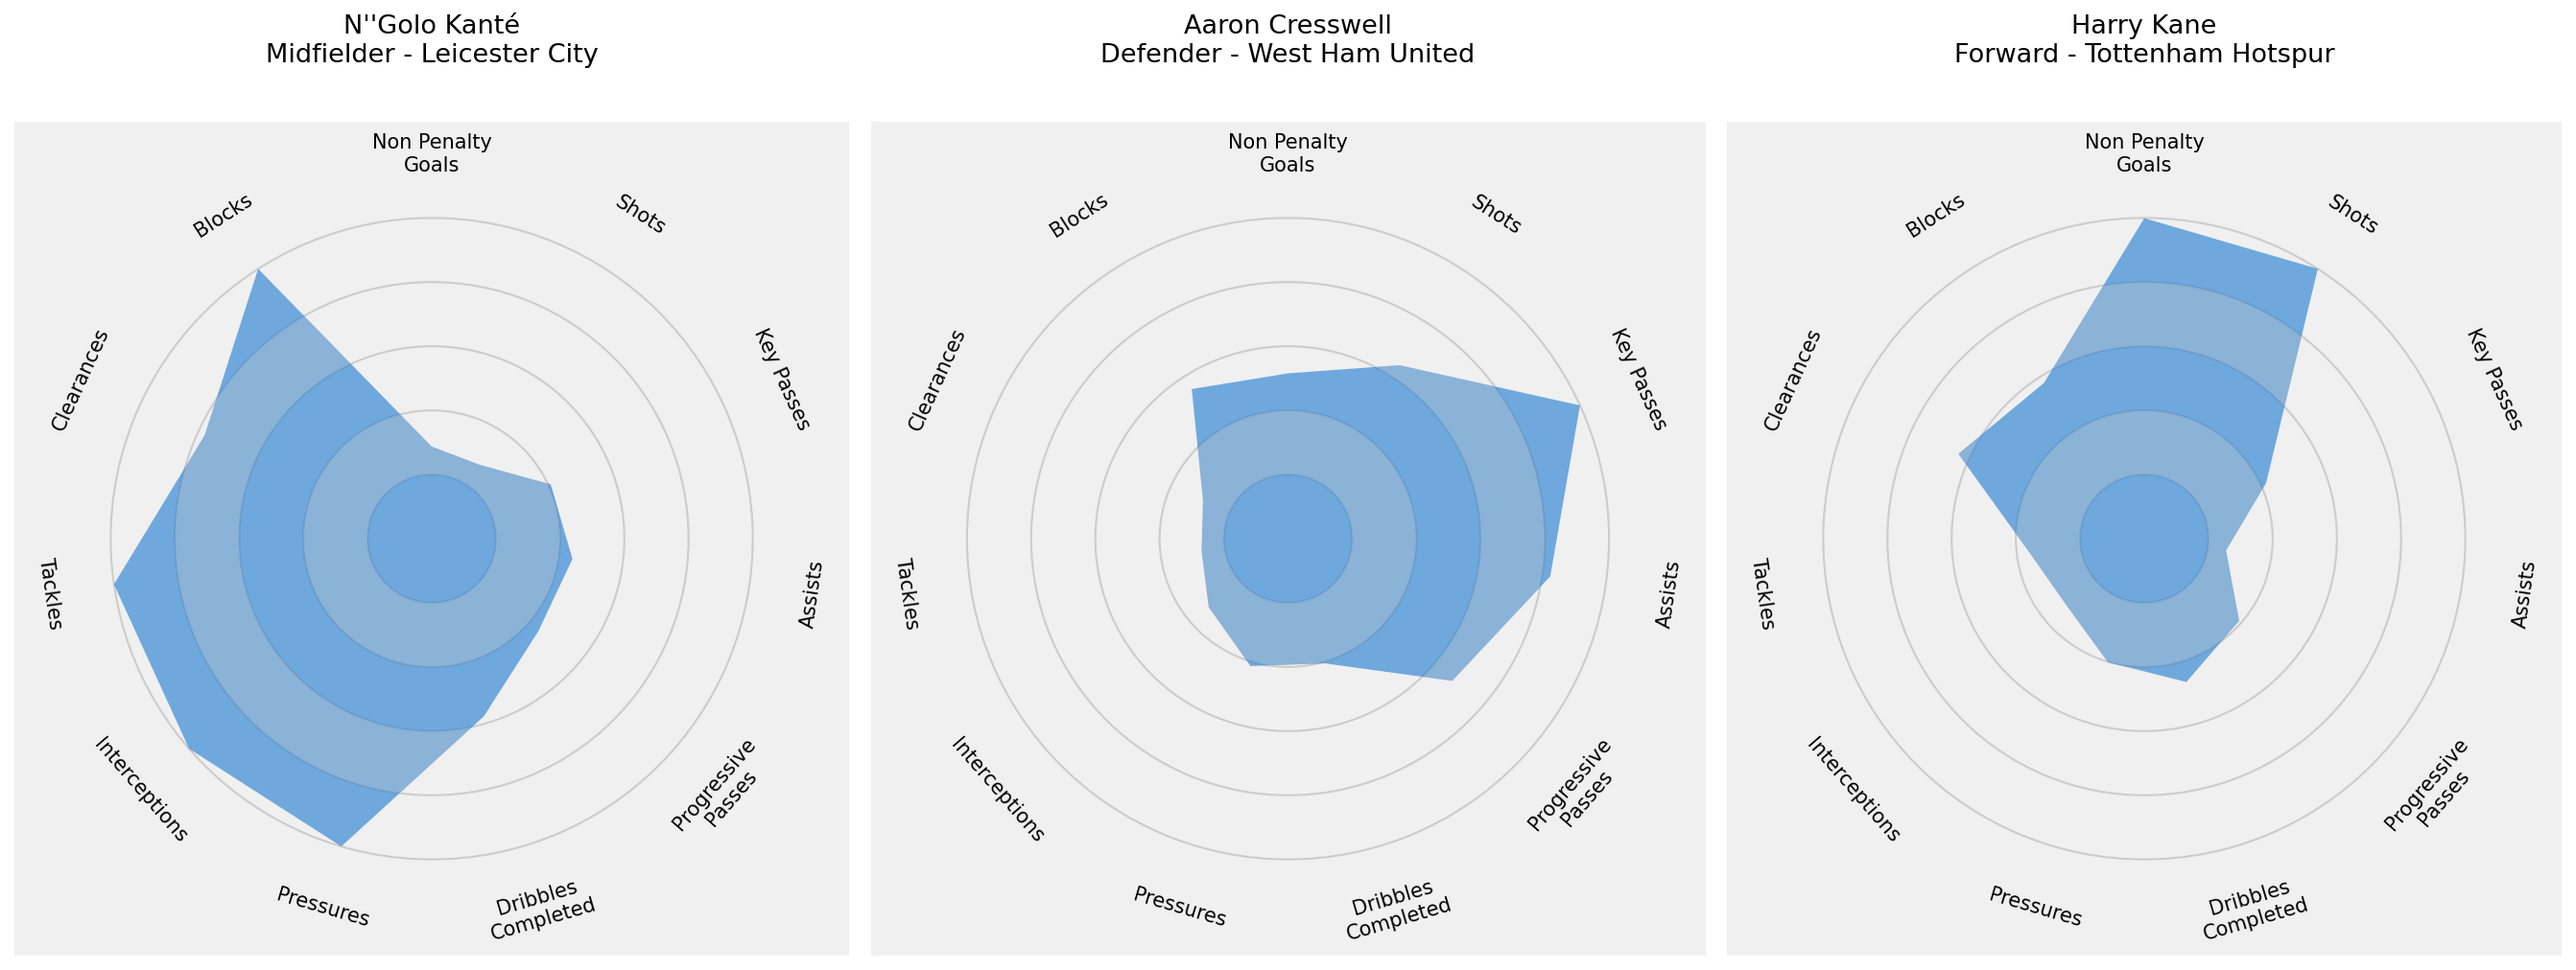
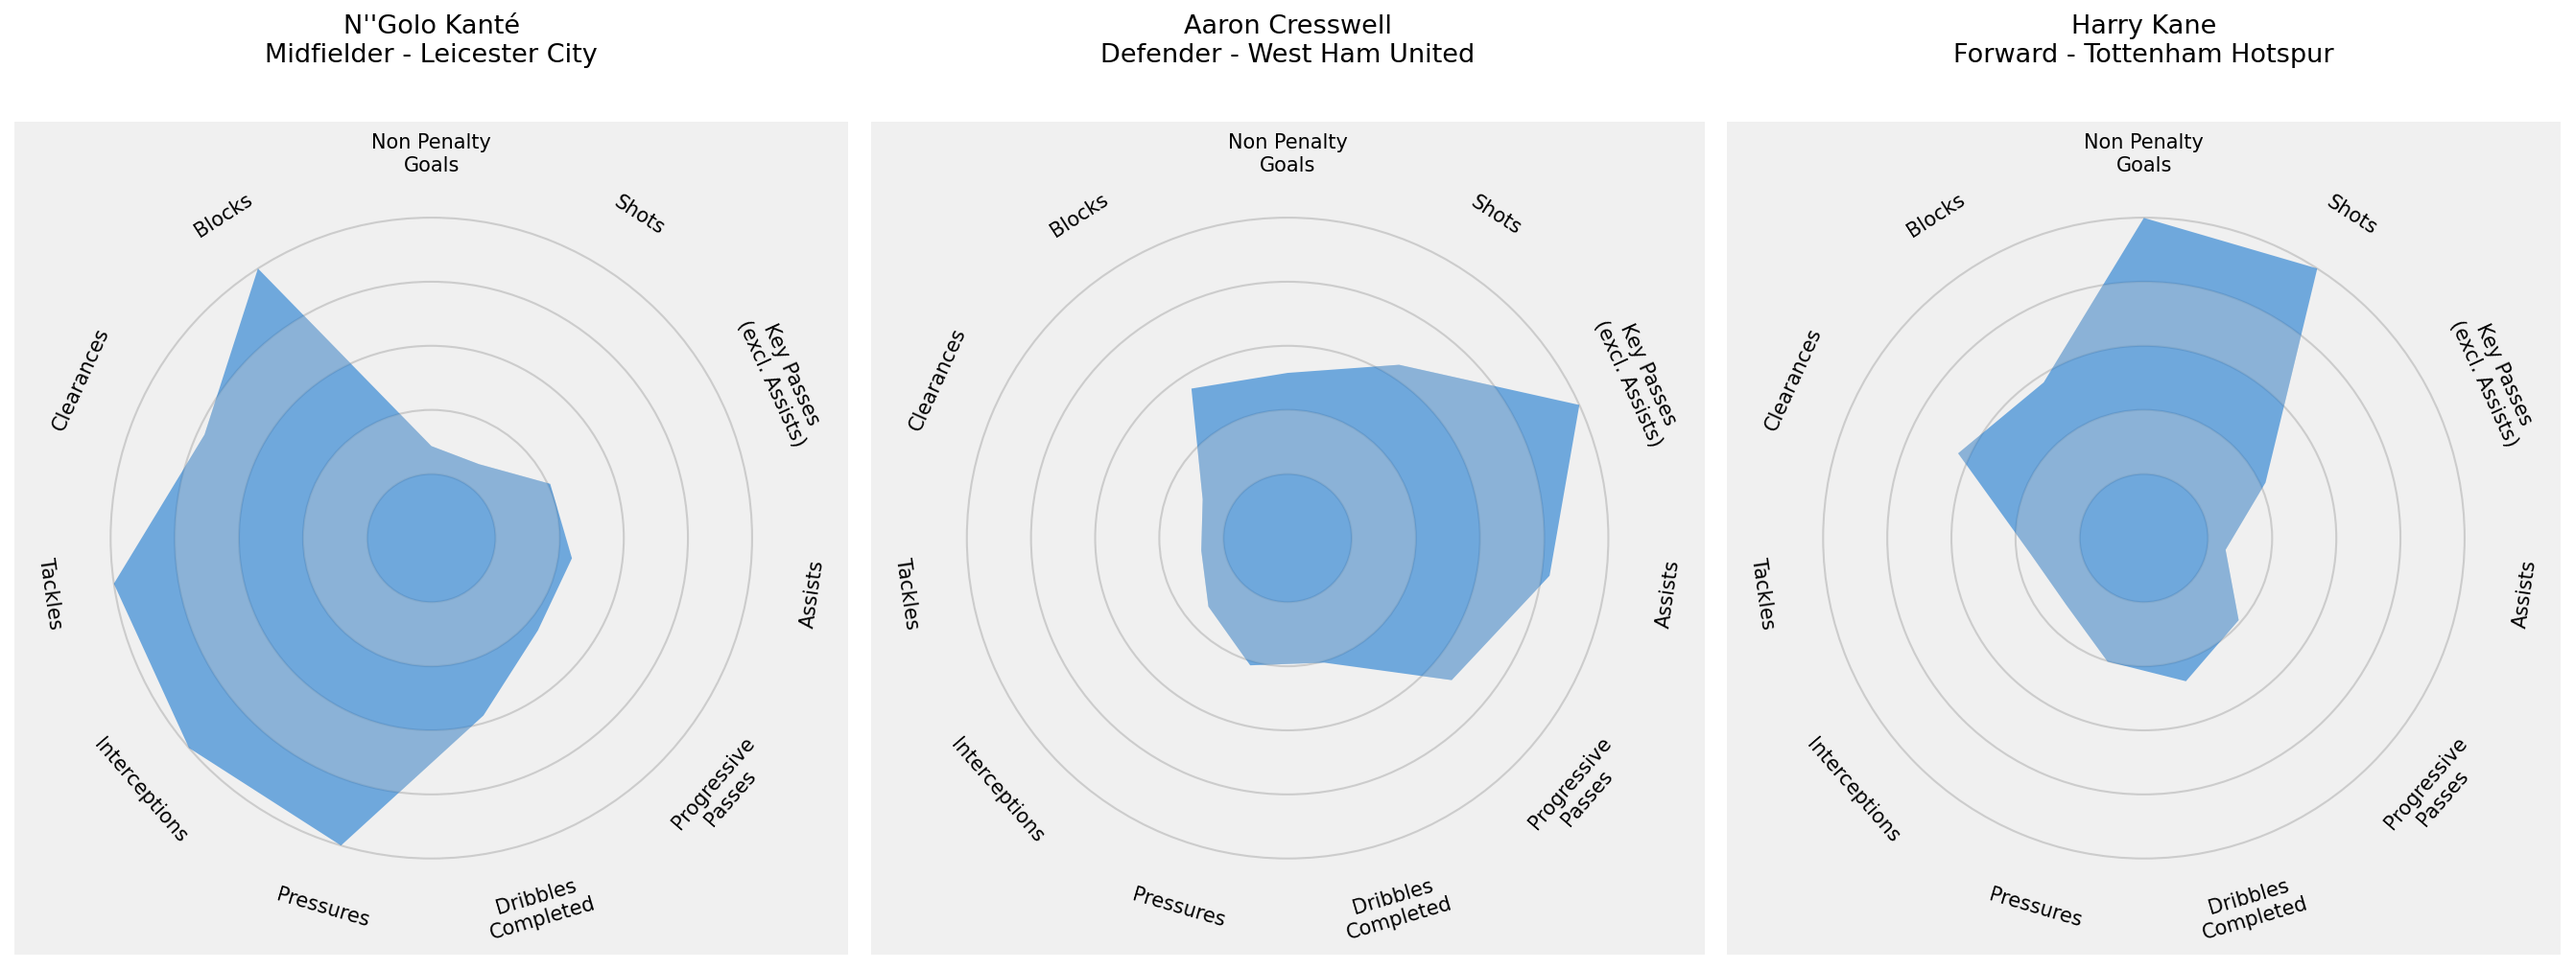
Label key passes as excluding assists
StatsBomb sets pass_shot_assist only when the shot didn't score (a goal's pass gets
pass_goal_assist instead; 0 overlaps in 120 matches), so the count excludes assists. The
feature stays disjoint for clustering; the app and radar label now say "Key Passes (excl.
Assists)", and the radar reads labels from presentation.STAT_LABELS.

diff --git a/tests/test_similarity.py b/tests/test_similarity.py
@@ -421,3 +421,17 @@ def test_season_build_merges_a_club_named_two_ways_into_one_row(monkeypatch):
     ]
     assert set(actions["team"]) == {"Olympique de Marseille"}
 
+
+
+def test_a_pass_that_set_up_a_goal_is_an_assist_not_a_key_pass():
+    # StatsBomb flags it pass_goal_assist only (never also pass_shot_assist), so the two counts
+    # never overlap; the app labels key passes "excl. Assists" for that reason.
+    events = pd.DataFrame([
+        {"type": "Pass", "player": "Ozil", "team": "T", "pass_goal_assist": True,
+         "pass_shot_assist": np.nan, "pass_outcome": np.nan, "location": [80, 40], "pass_end_location": [100, 40]},
+        {"type": "Pass", "player": "Ozil", "team": "T", "pass_goal_assist": np.nan,
+         "pass_shot_assist": True, "pass_outcome": np.nan, "location": [80, 40], "pass_end_location": [85, 40]},
+    ])
+    row = extract_player_match_actions(events).set_index("player").loc["Ozil"]
+    assert row["assists"] == 1
+    assert row["key_passes"] == 1

diff --git a/src/visualisation.py b/src/visualisation.py
@@ -9,6 +9,7 @@ import numpy as np
 import pandas as pd
 from mplsoccer import Pitch, Radar
 
+from src.presentation import STAT_LABELS
 from src.similarity import LOWER_IS_BETTER_STATS
 
 # Fixed seed for mplsoccer's random grass texture, so the same shots always render the same PNG.
@@ -189,7 +190,7 @@ def _radar_axes(population, feature_columns):
     population's 5th-95th percentile (see `plot_player_radar` for why not min/max), with
     lower-is-better stats (goals conceded) reversed so "further out" always means "better".
     """
-    labels = [col.replace("_p90", "").replace("_", " ").title() for col in feature_columns]
+    labels = [STAT_LABELS.get(col, col.replace("_p90", "").replace("_", " ").title()) for col in feature_columns]
     lower_is_better = [
         label for col, label in zip(feature_columns, labels) if col in LOWER_IS_BETTER_STATS
     ]

diff --git a/src/presentation.py b/src/presentation.py
@@ -34,6 +34,10 @@ STAT_LABELS = {
     for col in PER90_FEATURE_COLUMNS + GK_PER90_FEATURE_COLUMNS
 }
 STAT_LABELS["save_pct"] = "Save %"
+# StatsBomb flags a pass that set up a goal as an assist and *not* as a shot assist, so this count
+# excludes assists (checked 2026-10-02: the two flags never overlap). The usual "key passes" figure
+# includes them; the label says so, so 123 for Özil isn't read as his full chance creation.
+STAT_LABELS["key_passes_p90"] = "Key Passes (excl. Assists)"
 # Cluster profiling reads the league-normalised `_lz` columns, not the raw `_p90` ones — same
 # clean label either way, so a reader sees "Tackles" whichever number sits underneath.
 STAT_LABELS.update({f"{col}_lz": label for col, label in list(STAT_LABELS.items())})

diff --git a/src/similarity.py b/src/similarity.py
@@ -220,6 +220,9 @@ def extract_player_match_actions(events):
     shot_counts = shots.groupby(["player", "team"]).size().rename("shots")
 
     passes = events[events["type"] == "Pass"].copy()
+    # StatsBomb sets `pass_shot_assist` only when the shot didn't score; a pass that set up a goal
+    # gets `pass_goal_assist` instead. So key_passes and assists never overlap (no double count
+    # when clustering), and key_passes alone is lower than the usual "key passes" figure.
     key_passes = (
         passes[safe_bool_column(passes, "pass_shot_assist")]
         .groupby(["player", "team"]).size().rename("key_passes")

diff --git a/docs/MODULES.md b/docs/MODULES.md
@@ -55,7 +55,7 @@ This is additional evidence, not a replacement for the headline test set.
 
 **Data (app pool, Phase 4b, 2026-07-05):** the Streamlit app's player pool is wider — every dataset in `config.SIMILARITY_SETS` (Premier League, La Liga, Serie A, Ligue 1, all 2015/16, plus Frauen Bundesliga and FA WSL, both 2023/24), clustered together per position group rather than per competition (`src/app_data.py::_build_combined_similarity_table`). **Cross-league normalisation (2026-07-13):** per-90 rates are no longer compared directly across leagues — `similarity.normalize_within_competition` first expresses each stat as standard deviations above/below the player's own competition's average, and clustering/`find_similar_players` both run on those league-adjusted (`_lz`-suffixed) features rather than the raw pooled ones. Still a *relative*, data-only fix, not a true competitiveness rating (no external league-strength index exists in this project's data) — a cross-league "similar player" match now compares relative standing rather than a raw rate, but still assumes each league's stat distribution has a broadly comparable shape. Radar axes, percentiles, and signature stats stay on the raw per-90 rates on purpose (real-unit displays, not a similarity computation). **Honest ceiling:** StatsBomb's free open data has no recent men's top-flight season at all — 2015/16 is the newest full men's-league season available for any of these four leagues; the women's leagues (2023/24) are the newest full-season data this project has anywhere. A live/current-season pool isn't achievable on this data source without a paid licence, which is why "wider" rather than "newer" is the honest description of what changed for the men's side.
 
-**Per-90 features:** non-penalty goals, shots, key passes, assists, progressive passes, dribbles completed, pressures, interceptions, tackles, clearances, blocks. Clearances/blocks added 2026-07-05 for defender-facing "sofascore-like" stats — StatsBomb's `Clearance` event has no last-ditch/goal-line sub-classification (checked the real schema before adding this, see ML_LEARNING_LOG.md), so a plain clearance count is the closest honest proxy for that kind of defending, not a more specific stat mislabelled as one. `build_player_per90_features` returns the raw season-total count alongside every rate (2026-07-06) — clustering/percentiles still key off the `_p90` rate, but the app leads with the whole-number total since that's what reads as an actual season, not a decimal.
+**Per-90 features:** non-penalty goals, shots, key passes (excluding assists: StatsBomb flags the two separately and they never overlap), assists, progressive passes, dribbles completed, pressures, interceptions, tackles, clearances, blocks. Clearances/blocks added 2026-07-05 for defender-facing "sofascore-like" stats — StatsBomb's `Clearance` event has no last-ditch/goal-line sub-classification (checked the real schema before adding this, see ML_LEARNING_LOG.md), so a plain clearance count is the closest honest proxy for that kind of defending, not a more specific stat mislabelled as one. `build_player_per90_features` returns the raw season-total count alongside every rate (2026-07-06) — clustering/percentiles still key off the `_p90` rate, but the app leads with the whole-number total since that's what reads as an actual season, not a decimal.
 
 **Goalkeepers (2026-07-05, wired into the app 2026-07-13):** excluded from the outfield clustering above on purpose — a keeper's tackles/progressive-passes rate is meaningless, so reusing the same columns would just rediscover "this is a goalkeeper" rather than distinguish between keepers. `build_goalkeeper_per90_features` (`src/similarity.py`) gives them their own feature set instead — saves, goals conceded (penalties included), claims, punches, sweeper actions per 90 (raw season totals kept alongside, same "keep both" reasoning as the outfield builder), plus `save_pct` = saves ÷ (saves + goals conceded), the share of on-target shots stopped. Shots faced is kept as a display-only total, like outfield `goals`: it mostly measures the defence in front of the keeper. **Fixed 2026-10-02:** StatsBomb logs one keeper event per shot, and its "Shot Faced" type is only the remainder (off target, blocked, post), not every shot faced. The July caveat here suspected the denominator but had it backwards: `save_pct` had been saves ÷ "Shot Faced", median 38% instead of ~70%, and goals conceded had left out penalties. Checked on 150 matches: keeper events equal the shot count every time.
 

diff --git a/docs/PROGRESS.md b/docs/PROGRESS.md
@@ -26,6 +26,10 @@ docs were read, and each suspicion was checked against real data before acting.
   76 of 1,244 matches removed, 1,168 kept (~87%), all stars still correct.
 
 **Also fixed:**
+- *"Key Passes" label:* StatsBomb flags a pass that set up a goal as an assist and never also as
+  a shot assist (0 overlaps in 120 matches), so the count excludes assists (Özil: 123 + 19). The
+  feature stays as is: disjoint is cleaner for clustering. The label now reads "Key Passes (excl.
+  Assists)" in the app and on the radar; only `player_radar_examples.png` changed.
 - A page crash when fewer than three radar axes were selected. Goals Conceded is now drawn
   reversed on the radar.
 - Cache writes are atomic (`net.write_atomically`). The manifest now pins the six similarity

diff --git a/docs/ML_LEARNING_LOG.md b/docs/ML_LEARNING_LOG.md
@@ -138,6 +138,10 @@ Key gotchas and lessons — most recent first:
     loanees that became safe blanks). Data trap on the way: `player_valuations.current_club_id` is
     the club *today*; only `current_club_name` is the club at that date.
 
+  - *Key passes (label, not data).* Same family: `pass_shot_assist` is only set when the shot
+    didn't score, so "key passes" excluded assists. The definition was kept (no double counting
+    in clustering); the displayed name now says "excl. Assists".
+
   The habit to keep: for every derived stat, find one number it must equal or stay within (shots,
   20 teams, a ~70% save rate, a valuation from the right year) and assert it, ideally in a test
   that reads the shipped data.

diff --git a/README.md b/README.md
@@ -122,7 +122,7 @@ a target player (for budget reasons, for a like-for-like replacement, for scouti
 league) using their actual on-pitch output rather than name recognition.
 
 ### Approach
-- Per-90 event metrics (non-penalty goals, shots, key passes, assists, progressive passes,
+- Per-90 event metrics (non-penalty goals, shots, key passes excluding assists, assists, progressive passes,
   dribbles, pressures, interceptions, tackles, clearances, blocks) built from StatsBomb event data,
   **Premier League 2015/16**, 300 players clearing a 900-minute appearance floor.
 - Clustering run **separately within each position group** (Defender / Midfielder / Forward,
